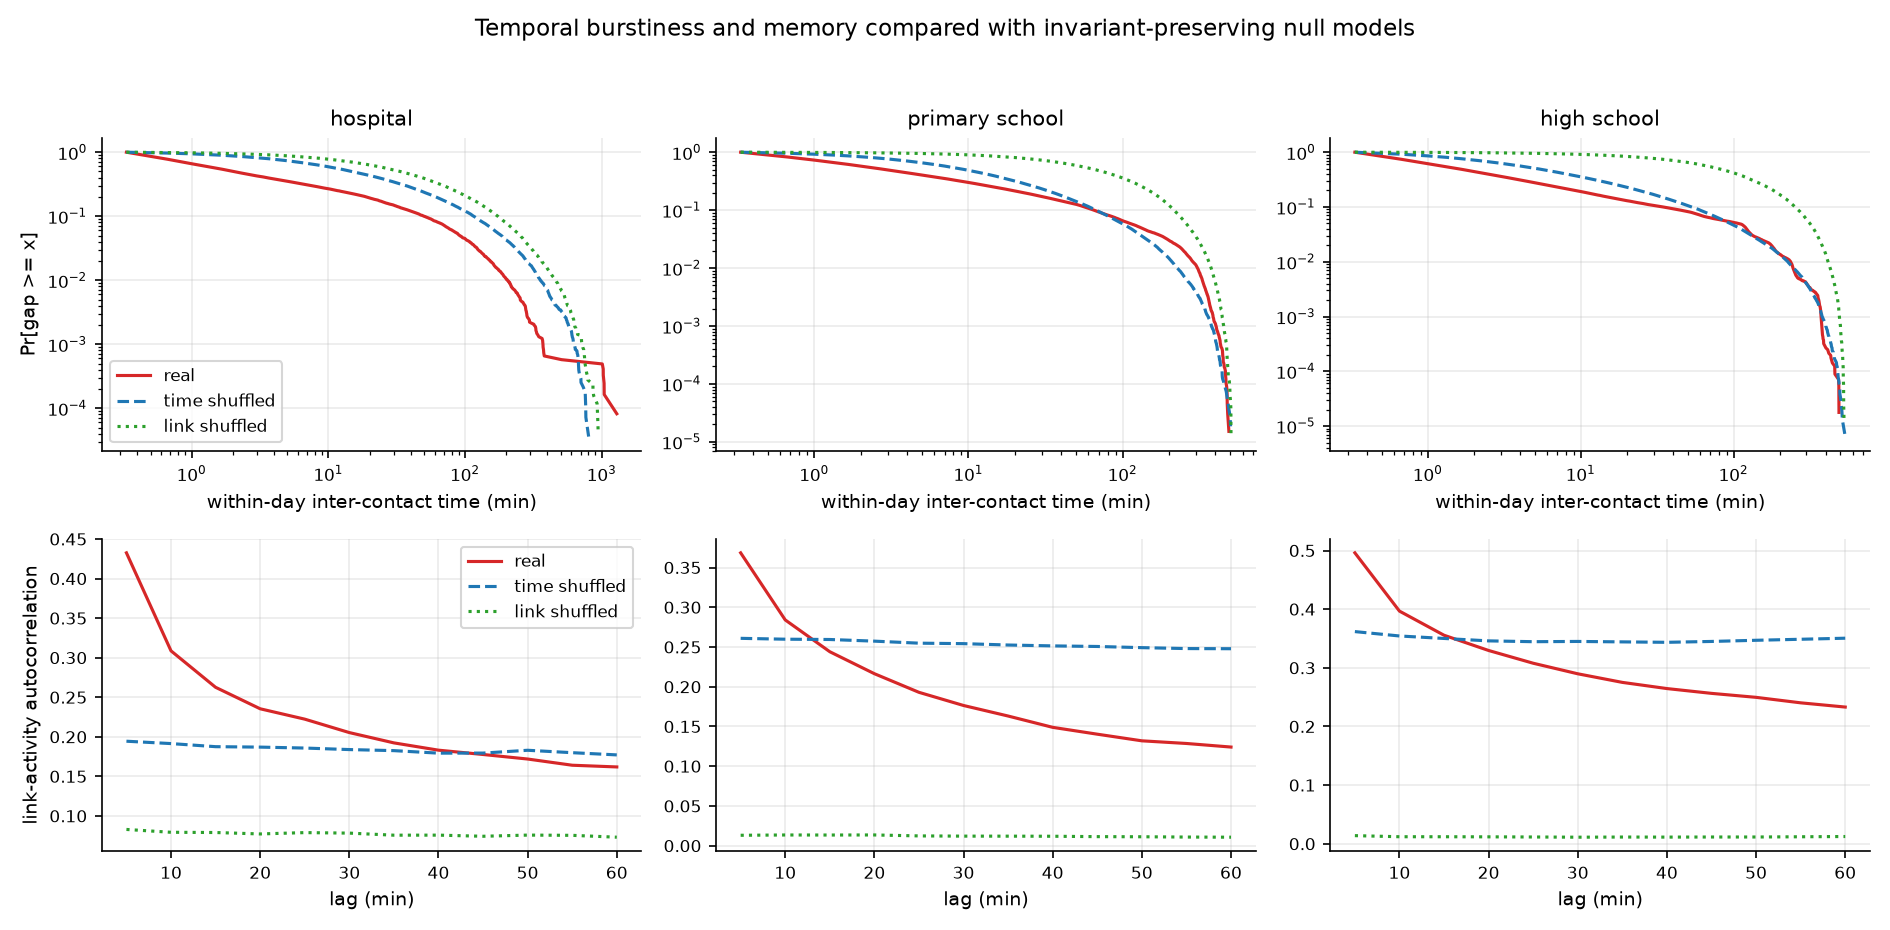
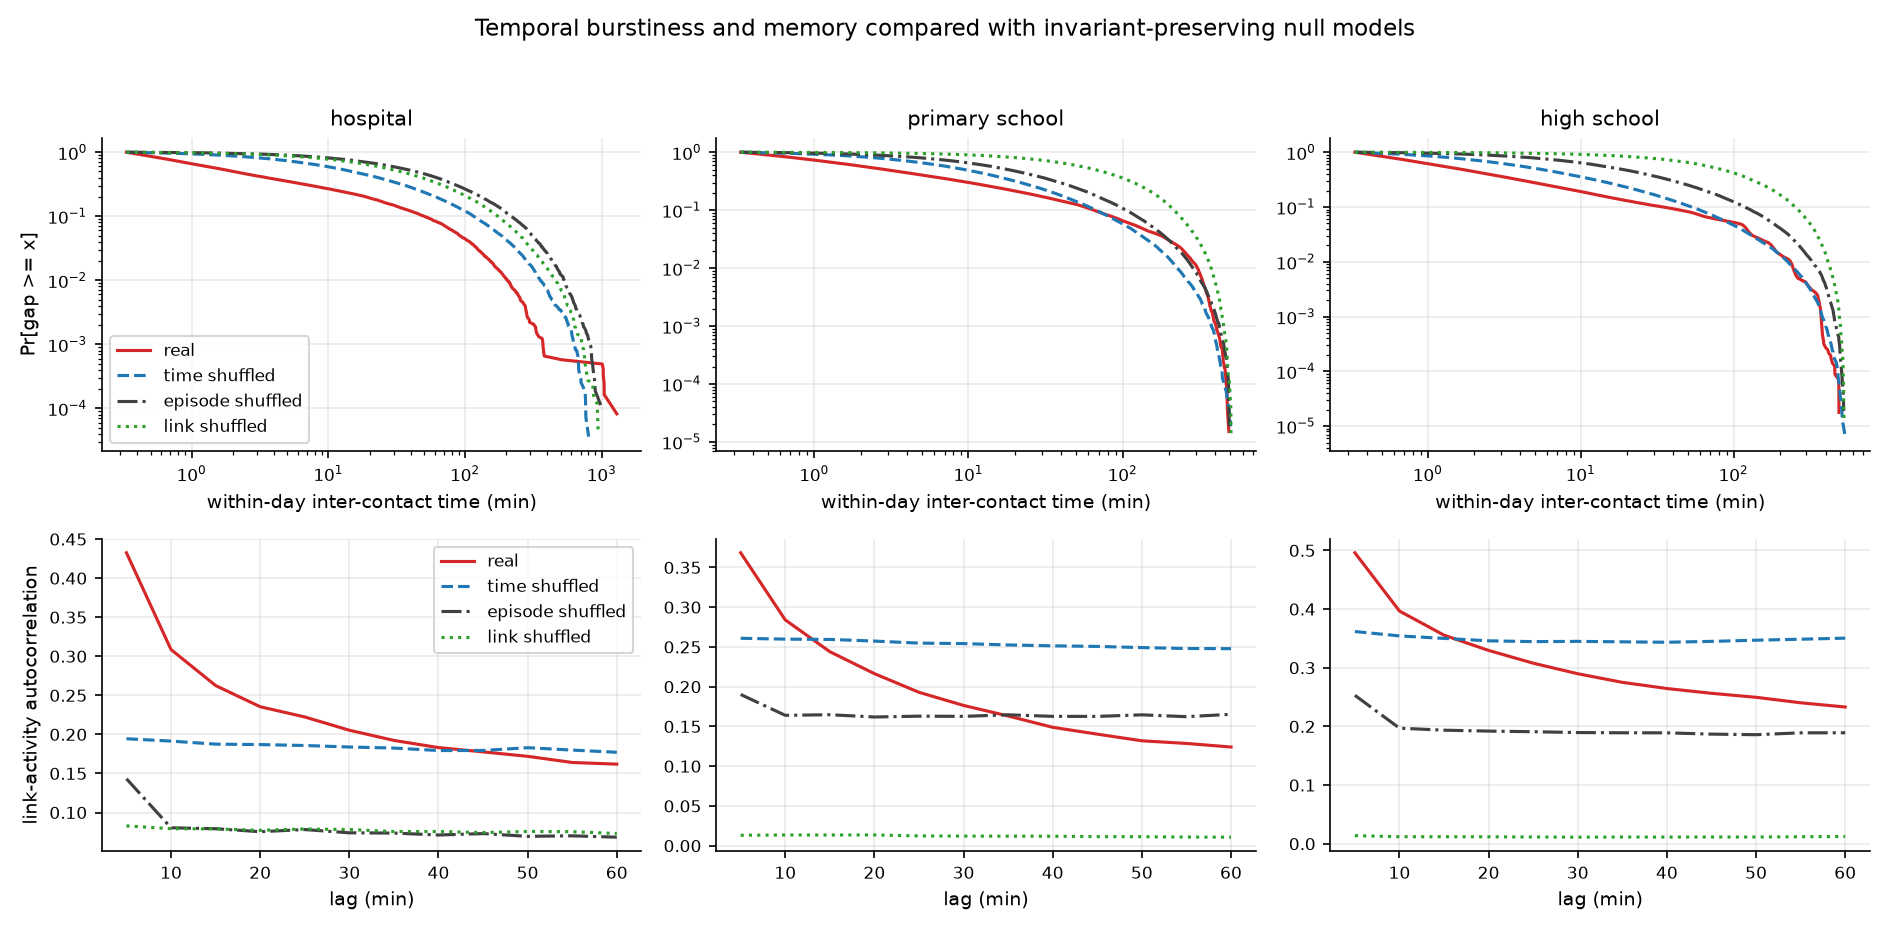
[feature][Stream 3] add episode-preserving temporal null model

diff --git a/src/f2f/temporal_nulls.py b/src/f2f/temporal_nulls.py
@@ -4,6 +4,9 @@ from __future__ import annotations
 import numpy as np
 import pandas as pd
 
+from .datasets import WINDOW_S
+from .temporal_metrics import contact_episodes
+
 
 def _replace_pairs(contacts: pd.DataFrame, pairs: np.ndarray) -> pd.DataFrame:
     out = contacts.copy()
@@ -96,6 +99,101 @@ def link_shuffle(
     return _replace_pairs(contacts, pairs)
 
 
+def episode_time_shuffle(
+    contacts: pd.DataFrame,
+    seed: int = 0,
+    max_attempts: int = 1000,
+    max_restarts: int = 20,
+) -> pd.DataFrame:
+    """Move intact contact episodes to other active periods in the recording.
+
+    Every episode keeps its pair and duration, so the aggregate weighted graph and
+    duration distribution are exact invariants. Candidate placements may be on a
+    different day, but every 20-second window must fall at a timestamp where the
+    original dataset had some activity. Episodes of the same pair may not overlap
+    or become adjacent, since either case would change the episode distribution.
+
+    Unlike :func:`time_shuffle`, this null does not preserve the number of contacts
+    at each timestamp. It isolates ordering effects without mechanically breaking
+    long meetings into individual windows.
+    """
+    if contacts.empty:
+        return contacts.copy()
+    rng = np.random.default_rng(seed)
+    episodes = contact_episodes(contacts)
+
+    active_times = np.sort(contacts["t"].unique().astype(np.int64))
+    time_day = contacts.groupby("t")["day"].first().astype(int).to_dict()
+    active_set = set(int(t) for t in active_times)
+
+    # Number of consecutive globally active 20-second slots starting at each t.
+    forward_run: dict[int, int] = {}
+    for t in active_times[::-1]:
+        t = int(t)
+        next_t = t + WINDOW_S
+        if next_t in active_set and time_day[next_t] == time_day[t]:
+            forward_run[t] = 1 + forward_run[next_t]
+        else:
+            forward_run[t] = 1
+    candidate_cache = {
+        int(w): np.array([t for t in active_times if forward_run[int(t)] >= int(w)], dtype=np.int64)
+        for w in episodes["windows"].unique()
+    }
+
+    placements: list[tuple[int, int, int, int, int]] = []
+    for (i, j), pair_episodes in episodes.groupby(["i", "j"], sort=False):
+        specs = list(pair_episodes[["start_t", "windows"]].itertuples(index=False, name=None))
+        placed = None
+        for _ in range(max_restarts):
+            occupied: set[int] = set()
+            attempt: dict[int, int] = {}
+            tie_break = rng.random(len(specs))
+            order = sorted(range(len(specs)), key=lambda idx: (-int(specs[idx][1]), tie_break[idx]))
+            failed = False
+            for idx in order:
+                windows = int(specs[idx][1])
+                candidates = candidate_cache[windows]
+                chosen = None
+                for _ in range(max_attempts):
+                    start = int(candidates[rng.integers(0, len(candidates))])
+                    end = start + (windows - 1) * WINDOW_S
+                    slots = range(start, end + WINDOW_S, WINDOW_S)
+                    if start - WINDOW_S in occupied or end + WINDOW_S in occupied:
+                        continue
+                    if any(t in occupied for t in slots):
+                        continue
+                    chosen = start
+                    occupied.update(slots)
+                    attempt[idx] = start
+                    break
+                if chosen is None:
+                    failed = True
+                    break
+            if not failed:
+                placed = attempt
+                break
+        if placed is None:
+            raise RuntimeError(
+                f"could not place all intact episodes for pair {(int(i), int(j))}; "
+                "increase max_attempts or max_restarts"
+            )
+        for idx, (_, windows) in enumerate(specs):
+            start = placed[idx]
+            placements.append((int(i), int(j), start, int(windows), int(time_day[start])))
+
+    rows = []
+    for i, j, start, windows, day in placements:
+        rows.extend(
+            (start + offset * WINDOW_S, i, j, day)
+            for offset in range(windows)
+        )
+    shuffled = pd.DataFrame(rows, columns=["t", "i", "j", "day"])
+    if "abs_time" in contacts:
+        origin = contacts["abs_time"].iloc[0] - pd.to_timedelta(int(contacts["t"].iloc[0]), unit="s")
+        shuffled["abs_time"] = origin + pd.to_timedelta(shuffled["t"], unit="s")
+    return shuffled.reindex(columns=contacts.columns).sort_values(["t", "i", "j"]).reset_index(drop=True)
+
+
 def assert_time_shuffle_invariants(original: pd.DataFrame, shuffled: pd.DataFrame) -> None:
     """Raise when a time-shuffled table violates its scientific definition."""
     pd.testing.assert_series_equal(
@@ -126,3 +224,31 @@ def assert_link_shuffle_invariants(original: pd.DataFrame, shuffled: pd.DataFram
         raise AssertionError("link shuffle created a self-loop or unsorted pair")
     if shuffled.duplicated(["t", "i", "j"]).any():
         raise AssertionError("link shuffle created duplicate pair-windows")
+
+
+def assert_episode_time_shuffle_invariants(original: pd.DataFrame, shuffled: pd.DataFrame) -> None:
+    """Raise when an episode-preserving shuffle violates its definition."""
+    pd.testing.assert_series_equal(
+        original.groupby(["i", "j"]).size().sort_index(),
+        shuffled.groupby(["i", "j"]).size().sort_index(),
+        check_names=False,
+    )
+    original_episodes = contact_episodes(original)
+    shuffled_episodes = contact_episodes(shuffled)
+    before = (
+        original_episodes.groupby(["i", "j"])["duration_s"]
+        .apply(lambda values: tuple(sorted(values)))
+        .sort_index()
+    )
+    after = (
+        shuffled_episodes.groupby(["i", "j"])["duration_s"]
+        .apply(lambda values: tuple(sorted(values)))
+        .sort_index()
+    )
+    pd.testing.assert_series_equal(before, after, check_names=False)
+    if not set(shuffled["t"]).issubset(set(original["t"])):
+        raise AssertionError("episode shuffle placed contacts outside observed active timestamps")
+    if (shuffled["i"] >= shuffled["j"]).any():
+        raise AssertionError("episode shuffle created a self-loop or unsorted pair")
+    if shuffled.duplicated(["t", "i", "j"]).any():
+        raise AssertionError("episode shuffle created duplicate pair-windows")

diff --git a/scripts/run_temporal_characterisation.py b/scripts/run_temporal_characterisation.py
@@ -65,6 +65,7 @@ def temporal_figure(plot_data: dict) -> None:
     styles = {
         "real": ("C3", "-"),
         "time shuffled": ("C0", "--"),
+        "episode shuffled": ("0.25", "-."),
         "link shuffled": ("C2", ":"),
     }
     for col, key in enumerate(datasets_order):
@@ -128,15 +129,18 @@ def main() -> None:
         representatives = {"real": contacts}
         for label, kind, shuffle, check in [
             ("time shuffled", "time_shuffled", tn.time_shuffle, tn.assert_time_shuffle_invariants),
+            (
+                "episode shuffled", "episode_time_shuffled",
+                tn.episode_time_shuffle, tn.assert_episode_time_shuffle_invariants,
+            ),
             ("link shuffled", "link_shuffled", tn.link_shuffle, tn.assert_link_shuffle_invariants),
         ]:
             null_rows = []
             for run in range(args.n_null):
-                shuffled = shuffle(
-                    contacts,
-                    seed=args.seed + run,
-                    swaps_per_contact=args.swaps_per_contact,
-                )
+                kwargs = {"seed": args.seed + run}
+                if kind != "episode_time_shuffled":
+                    kwargs["swaps_per_contact"] = args.swaps_per_contact
+                shuffled = shuffle(contacts, **kwargs)
                 check(contacts, shuffled)
                 summary = tm.temporal_summary(shuffled, node_ids, args.bin_s, args.max_lag)
                 null_rows.append({"run": run, **summary})

diff --git a/src/f2f/cache.py b/src/f2f/cache.py
@@ -5,7 +5,7 @@ streams without asking anyone. One parquet file per experiment under results/.
 
 Required columns (the contract agreed at kick-off):
     dataset   str    hospital | primary_school | high_school
-    version   str    real | time_shuffled | link_shuffled | aggregated | surrogate
+    version   str    real | time_shuffled | episode_time_shuffled | link_shuffled | aggregated | surrogate
     beta      float  per-window transmission probability
     gamma     float  per-window recovery probability
     seed      int    seed node id (or -1 when not seed-specific)
@@ -24,7 +24,10 @@ from .datasets import ROOT
 
 RESULTS_DIR = ROOT / "results"
 REQUIRED = ["dataset", "version", "beta", "gamma", "seed", "run", "outcome", "value"]
-VERSIONS = {"real", "time_shuffled", "link_shuffled", "aggregated", "surrogate"}
+VERSIONS = {
+    "real", "time_shuffled", "episode_time_shuffled", "link_shuffled",
+    "aggregated", "surrogate",
+}
 
 
 def validate(df: pd.DataFrame) -> pd.DataFrame:

diff --git a/tests/test_temporal.py b/tests/test_temporal.py
@@ -47,6 +47,11 @@ class TemporalNullTests(unittest.TestCase):
         shuffled = tn.link_shuffle(contacts, seed=5, swaps_per_contact=20)
         tn.assert_link_shuffle_invariants(contacts, shuffled)
 
+    def test_episode_time_shuffle_invariants(self):
+        contacts = small_contacts()
+        shuffled = tn.episode_time_shuffle(contacts, seed=6)
+        tn.assert_episode_time_shuffle_invariants(contacts, shuffled)
+
 
 class PredictionTests(unittest.TestCase):
     def test_self_driven_weights_recent_activity_more(self):

diff --git a/STREAM3_RESULTS.md b/STREAM3_RESULTS.md
@@ -21,11 +21,14 @@ The following quantities are measured:
   windows at lags from 5 to 60 minutes.
 - **Activity potential:** a node's share of all undirected contact involvements.
 
-Two temporal null models provide random baselines:
+Three temporal null models provide random baselines:
 
 - **Time shuffle:** preserves every pair's number of contact windows and the number
   of contacts at every timestamp, but randomises the association between pairs and
   timestamps. It therefore preserves the aggregated weighted network.
+- **Episode-time shuffle:** moves complete meetings to other active periods in the
+  full recording, possibly on another day. It preserves every pair, episode duration
+  and the aggregated weighted network, but not the exact contact count per timestamp.
 - **Link shuffle:** preserves the number of contacts at every timestamp and every
   node's total contact involvement, but randomises partners. It deliberately changes
   the aggregated topology.
@@ -39,23 +42,31 @@ values are means over 20 independently shuffled sequences per dataset and model.
 | --- | --- | ---: | ---: | ---: | ---: |
 | Hospital | Real | 46.198 | 0.451 | 0.284 | 0.433 |
 | Hospital | Time shuffled | 20.547 | 0.258 | 0.073 | 0.193 |
+| Hospital | Episode-time shuffled | 46.198 | 0.134 | 0.063 | 0.144 |
 | Hospital | Link shuffled | 20.174 | 0.150 | 0.030 | 0.083 |
 | Primary school | Real | 32.449 | 0.411 | 0.244 | 0.368 |
 | Primary school | Time shuffled | 20.776 | 0.267 | 0.150 | 0.261 |
+| Primary school | Episode-time shuffled | 32.449 | 0.182 | 0.110 | 0.189 |
 | Primary school | Link shuffled | 20.050 | -0.036 | 0.016 | 0.015 |
 | High school | Real | 55.761 | 0.481 | 0.390 | 0.496 |
 | High school | Time shuffled | 21.826 | 0.357 | 0.209 | 0.361 |
+| High school | Episode-time shuffled | 55.761 | 0.203 | 0.146 | 0.253 |
 | High school | Link shuffled | 20.031 | -0.050 | 0.009 | 0.014 |
 
 The real networks have longer episodes, greater burstiness and substantially more
 short-term link memory than their null models. Shuffled durations approach 20 seconds
 because randomisation separates most originally consecutive sensor observations.
 
-Time-shuffled networks retain more memory than link-shuffled networks. This is
-expected: time shuffling still preserves which pairs meet frequently, while link
-shuffling also removes stable partners and group structure. The strongest evidence
-for partner-specific organisation is in the schools, where link-shuffled lag-1
-autocorrelation falls from 0.368 and 0.496 to approximately 0.015.
+Episode-time shuffling keeps the real duration distribution exactly, yet lag-1
+autocorrelation falls from 0.433, 0.368 and 0.496 to 0.144, 0.189 and 0.253. Meeting
+duration therefore explains only part of the observed short-term memory; the
+original scheduling and repetition of meetings also matter.
+
+The null models are not nested and need not have a fixed ordering. In particular,
+window-level time shuffling preserves exact contact volume at every timestamp,
+whereas episode-time shuffling preserves complete meetings instead. Link shuffling
+removes stable partners and group structure as well, leaving autocorrelation of only
+0.083 in the hospital and approximately 0.015 in both schools.
 
 The differences from the null ensembles are much larger than their run-to-run
 variation. Exact z-score magnitudes are not substantively important; the defensible
@@ -63,7 +74,7 @@ conclusion is that the direction of every main temporal effect is highly robust.
 
 ![Temporal properties compared with null models](figures/rq1_temporal_vs_null.png)
 
-The figure uses one fixed-seed null realisation for each displayed null curve. The
+The figure uses one fixed-seed realisation for each displayed null curve. The
 table and z-score files use all 20 realisations.
 
 ## Next-Day Prediction
@@ -109,6 +120,7 @@ git-ignored but reproducible. Important files include:
 - `results/activity_potential_<dataset>.csv`
 - `results/predicted_contacts_<dataset>.csv`
 - `data/processed/<dataset>_time_shuffled.parquet`
+- `data/processed/<dataset>_episode_time_shuffled.parquet`
 - `data/processed/<dataset>_link_shuffled.parquet`
 
 ## Reproduction and Verification
@@ -121,7 +133,7 @@ python scripts/run_temporal_characterisation.py --n-null 20
 
 The final run used seed `4310`, 5-minute memory bins, lags up to 60 minutes,
 24 active snapshots of prediction history and three randomisation sweeps per contact.
-All three dataset checksums and all eight Stream 3 tests passed. The tests verify the
+All three dataset checksums and all nine Stream 3 tests passed. The tests verify the
 episode construction, activity normalisation, memory calculation, self-driven score,
 next-day candidate handling and the exact invariants of both null models.
 

diff --git a/README.md b/README.md
@@ -28,8 +28,9 @@ python scripts/check_data.py    # stream 1 acceptance check (checksums, day tabl
 
 One row = one 20-second window in which `i` and `j` were in proximity.
 
-Network versions are named strings used everywhere: `real`, `time_shuffled`, `link_shuffled`,
-`aggregated`, `surrogate`. Simulation results go to `results/<experiment>.parquet` through
+Network versions are named strings used everywhere: `real`, `time_shuffled`,
+`episode_time_shuffled`, `link_shuffled`, `aggregated`, `surrogate`. Simulation results go to
+`results/<experiment>.parquet` through
 `f2f.cache.save_result` with the row format `dataset, version, beta, gamma, seed, run, outcome, value`.
 
 Progress per stream and per task: see [PLAN.md](PLAN.md).
@@ -81,16 +82,18 @@ hopcount; its `L` z-score shows the loss. It is kept for comparison with the lec
 
 ```bash
 python scripts/run_temporal_characterisation.py --datasets hospital --n-null 3  # quick check
-python scripts/run_temporal_characterisation.py --n-null 20                    # full run, ~11 min
+python scripts/run_temporal_characterisation.py --n-null 20                    # full run, ~13 min
 python -m unittest discover -s tests                                          # acceptance tests
 ```
 
 The time shuffle preserves every pair's number of 20-second contacts and every timestamp's contact
-count, but randomises their ordering. The link shuffle preserves every timestamp's contact count and
-every node's total contact involvement, but randomises partners. Both reject self-loops and duplicate
-pair-windows. Memory is measured in 5-minute bins within each calendar day, so nights do not create
-artificially long gaps. Because contacts are undirected, activity potential is a node's share of all
-contact involvements, not a fictitious share of "initiated" contacts.
+count, but randomises their ordering. The episode-time shuffle instead moves intact meetings across
+active periods, preserving each pair and meeting duration but not exact per-timestamp volume. The
+link shuffle preserves every timestamp's contact count and every node's total contact involvement,
+but randomises partners. All nulls reject self-loops and duplicate pair-windows. Memory is measured
+in 5-minute bins within each calendar day, so nights do not create artificially long gaps. Because
+contacts are undirected, activity potential is a node's share of all contact involvements, not a
+fictitious share of "initiated" contacts.
 
 The self-driven predictor follows [Zou, Ceria and Wang
 (2023)](https://doi.org/10.1007/s41109-023-00597-w): recent binary link activity is weighted by

diff --git a/PLAN.md b/PLAN.md
@@ -9,7 +9,7 @@ Legend: ✅ done in this MR · ⬜ open. Tick items as PRs land.
 
 Shared contracts (agreed on day one, see README):
 - ✅ Contact table: `t, i, j, abs_time, day`; node table with `group`
-- ✅ Network version names: `real`, `time_shuffled`, `link_shuffled`, `aggregated`, `surrogate`
+- ✅ Network version names: `real`, `time_shuffled`, `episode_time_shuffled`, `link_shuffled`, `aggregated`, `surrogate`
 - ✅ Result cache row: `dataset, version, beta, gamma, seed, run, outcome, value` (`f2f.cache`)
 - ⬜ Simulator signature: `simulate(contacts, seeds, beta, gamma, immunised, removed_contacts, runs, rng_seed)` (stream 4 to implement)
 - ⬜ Figure style file under `figures/`
@@ -66,6 +66,7 @@ Needs: loader. Delivers to: shuffles and activity potentials to stream 5; predic
 - ✅ Activity potential per node (undirected contact-involvement share) and its distribution
 - ✅ Jaccard similarity and link-activity autocorrelation as a function of lag (memory decay)
 - ✅ Time-shuffle null (random pair-time assignment, keeps the aggregated weighted graph) in contact-table format
+- ✅ Episode-preserving time-shuffle null (moves intact meetings across active periods)
 - ✅ Link-shuffle null (node-activity-preserving temporal endpoint swaps) in contact-table format
 - ✅ Temporal metrics on shuffled sequences, z-scores
 - ✅ Self-driven memory model (lecture 3) predicting next-day contacts from previous days
